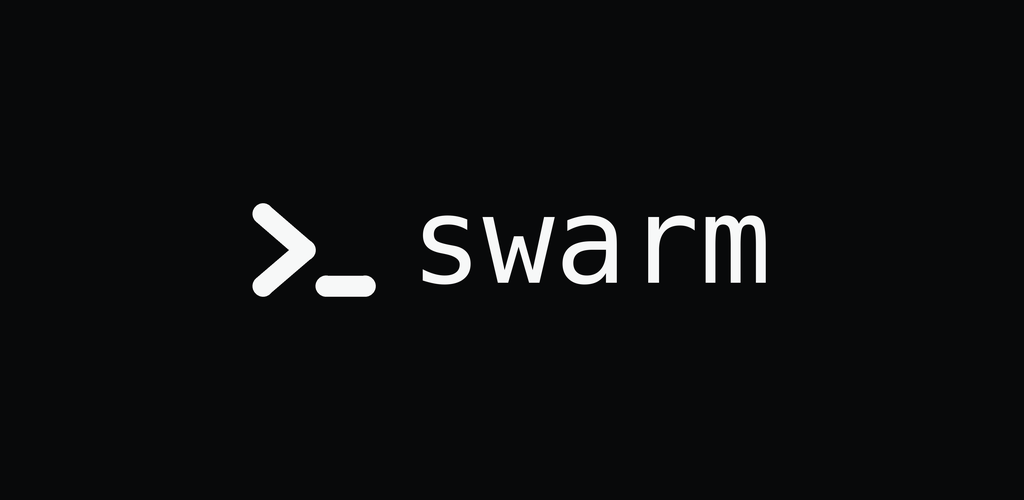
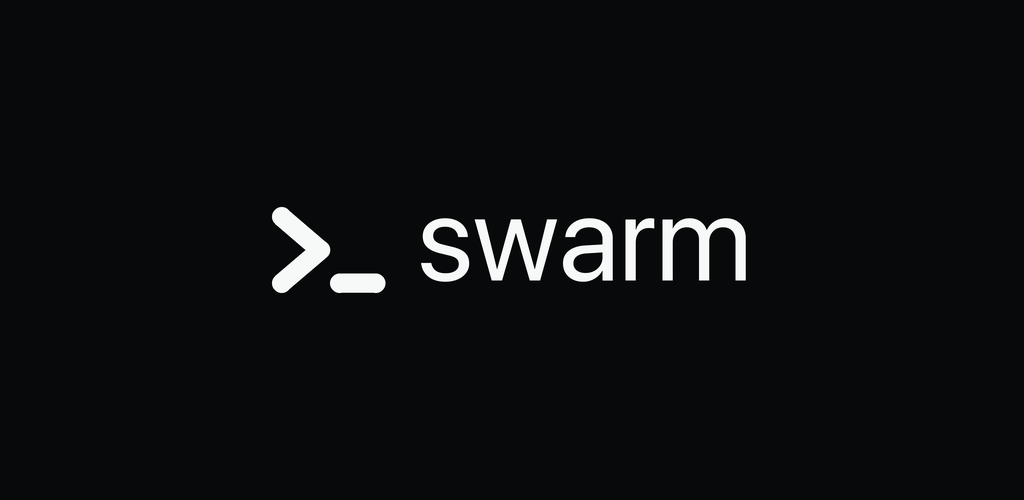
Re-render the feature graphic: fix the wordmark kerning
The first render had a visible gap between "swa" and "rm" with inconsistent
glyph metrics across the join -- a fault invisible in the source and obvious in
the output, which is the third time on this asset that looking at the rendered
image caught what reading the code did not.

Claude-Session: https://claude.ai/code/session_01WjKBGz91ne5YhLYdr9CxaW

Changed region(s): [[0.4062, 0.42, 0.75, 0.57], [0.25, 0.39, 0.375, 0.6]]

diff --git a/scripts/render-play-assets.py b/scripts/render-play-assets.py
@@ -24,9 +24,16 @@ present on a stock macOS python3.
 
     python3 -m pip install pillow
 
-Menlo is used for the wordmark because internal/design/tokens.json's --p-mono names it
-explicitly ("ui-monospace, \"SF Mono\", Menlo, monospace") and it ships with macOS. On a host
-without it, set SWARM_ASSET_FONT to any monospace .ttf/.ttc.
+THE WORDMARK IS SET IN --p-font, NOT --p-mono, and the first attempt got that wrong. Menlo is
+monospace, so a narrow letter sits in a wide cell: measured, `r` carries a 21-unit left bearing
+inside its 72-unit advance while `a` ends 10 short of its own, putting 31 units of white
+between them against 7 between `w` and `a`. The advances are uniform -- it is not a fallback or
+a kerning fault -- but the INK is not, and the eye reads the result as a spacing defect between
+"swa" and "rm".
+
+--p-font ("-apple-system, BlinkMacSystemFont, \"SF Pro Text\", sans-serif") is the app's primary
+type and the right token for brand text; --p-mono is for terminal content, which a wordmark is
+not. On macOS those names resolve to SFNS.ttf. Set SWARM_ASSET_FONT to override.
 """
 import os
 import sys
@@ -110,9 +117,9 @@ def feature_graphic(path):
     draw = ImageDraw.Draw(img)
 
     wordmark = "swarm"
-    font_path = os.environ.get("SWARM_ASSET_FONT", "/System/Library/Fonts/Menlo.ttc")
+    font_path = os.environ.get("SWARM_ASSET_FONT", "/System/Library/Fonts/SFNS.ttf")
     if not os.path.exists(font_path):
-        sys.exit("no monospace font at %s; set SWARM_ASSET_FONT" % font_path)
+        sys.exit("no wordmark font at %s; set SWARM_ASSET_FONT" % font_path)
     font = ImageFont.truetype(font_path, int(120 * SS))
 
     left, top, right, bottom = draw.textbbox((0, 0), wordmark, font=font)
